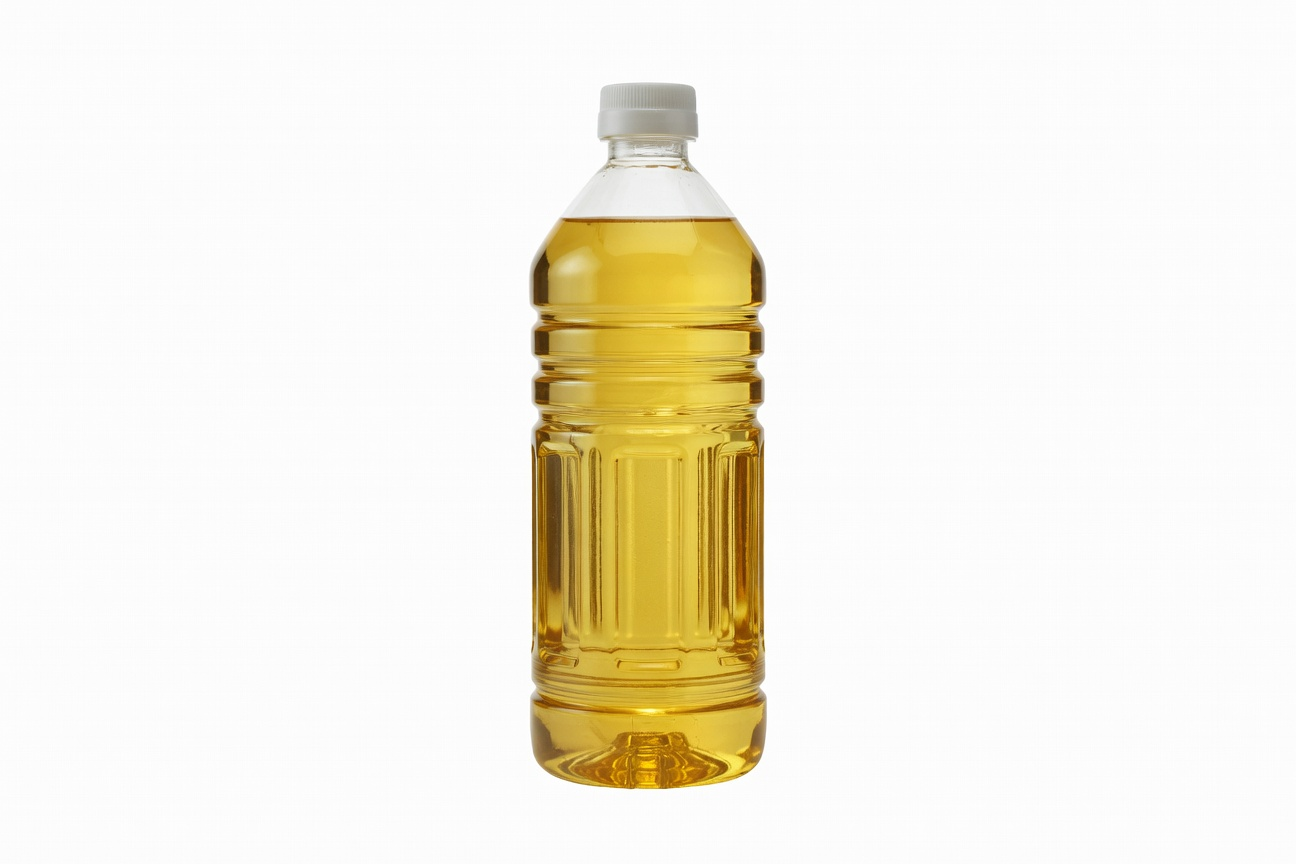
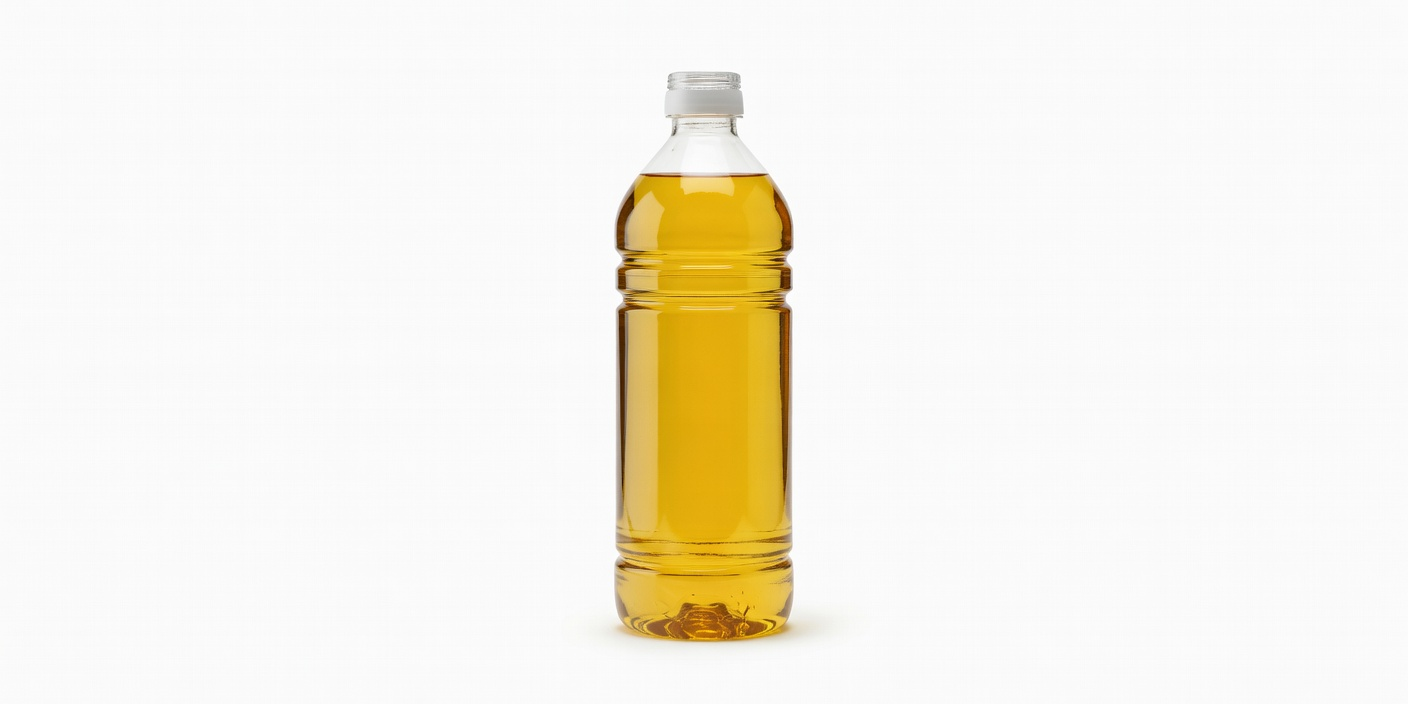
Fix catalog image framing and refresh product assets

Changed region(s): [[0.4012, 0.0938, 0.6173, 0.9375]]

diff --git a/frontend/src/components/ProductImage.jsx b/frontend/src/components/ProductImage.jsx
@@ -9,6 +9,8 @@ function ProductImage({
   height = 160,
   width = "100%",
   borderRadius = 0,
+  border = "1px solid #d1d5db",
+  fit = "contain",
 }) {
   const productName = String(alt || "").trim() || "Без названия";
   const candidateSources = useMemo(
@@ -25,10 +27,13 @@ function ProductImage({
     setFailed(false);
   }, [candidateSources]);
 
-  const resolvedWidth = typeof width === "number" ? `${width}px` : width;
-  const resolvedHeight = typeof height === "number" ? `${height}px` : height;
+  const numericWidth = typeof width === "number" ? width : undefined;
+  const numericHeight = typeof height === "number" ? height : undefined;
+  const resolvedWidth = numericWidth == null ? width : `${numericWidth}px`;
+  const resolvedHeight = numericHeight == null ? height : `${numericHeight}px`;
   const resolvedBorderRadius =
     typeof borderRadius === "number" ? `${borderRadius * 8}px` : borderRadius;
+  const resolvedFit = fit === "cover" ? fit : "contain";
 
   const handleError = () => {
     if (activeSourceIndex < candidateSources.length - 1) {
@@ -52,7 +57,7 @@ function ProductImage({
         textAlign: "center",
         backgroundColor: hasImage ? "#ffffff" : "#f3f4f6",
         color: "#111827",
-        border: "1px solid #d1d5db",
+        border,
       }}
     >
       {hasImage ? (
@@ -61,14 +66,15 @@ function ProductImage({
           alt={productName}
           loading="lazy"
           decoding="async"
-          width={typeof width === "number" ? width : undefined}
-          height={typeof height === "number" ? height : undefined}
+          width={numericWidth}
+          height={numericHeight}
           onError={handleError}
           style={{
             width: "100%",
             height: "100%",
             display: "block",
-            objectFit: "contain",
+            objectFit: resolvedFit,
+            objectPosition: "center",
             backgroundColor: "#ffffff",
             borderRadius: "inherit",
           }}

diff --git a/frontend/src/components/ProductImage.test.jsx b/frontend/src/components/ProductImage.test.jsx
@@ -1,0 +1,54 @@
+import { render, screen } from "@testing-library/react";
+import { describe, expect, it } from "vitest";
+
+import ProductImage from "./ProductImage.jsx";
+
+describe("ProductImage", () => {
+  it("supports custom border styling for card media integration", () => {
+    render(
+      <ProductImage
+        productId={103}
+        src="/images/products/test-border.webp"
+        alt="Товар без внутренней рамки"
+        height={160}
+        border="none"
+      />,
+    );
+
+    expect(
+      screen.getByRole("img", { name: "Товар без внутренней рамки" }).parentElement?.style
+        .borderStyle,
+    ).toBe("none");
+  });
+
+  it("uses contain fit by default", () => {
+    render(
+      <ProductImage
+        productId={101}
+        src="/images/products/test.webp"
+        alt="Тестовый товар"
+        height={160}
+      />,
+    );
+
+    expect(screen.getByRole("img", { name: "Тестовый товар" })).toHaveStyle(
+      "object-fit: contain",
+    );
+  });
+
+  it("supports cover fit for edge-to-edge catalog cards", () => {
+    render(
+      <ProductImage
+        productId={102}
+        src="/images/products/test-cover.webp"
+        alt="Товар на всю рамку"
+        height={160}
+        fit="cover"
+      />,
+    );
+
+    expect(screen.getByRole("img", { name: "Товар на всю рамку" })).toHaveStyle(
+      "object-fit: cover",
+    );
+  });
+});

diff --git a/frontend/src/utils/productImageSources.test.js b/frontend/src/utils/productImageSources.test.js
@@ -1,9 +1,6 @@
 import { describe, expect, it } from "vitest";
 
-import {
-  buildGeneratedProductImageAlias,
-  buildProductImageCandidates,
-} from "./productImageSources.js";
+import { buildGeneratedProductImageAlias, buildProductImageCandidates } from "./productImageSources.js";
 
 describe("productImageSources", () => {
   it("builds generated product image alias from legacy webp source", () => {
@@ -24,7 +21,6 @@ describe("productImageSources", () => {
   it("prefers generated jpg alias and keeps api photoUrl as fallback", () => {
     expect(
       buildProductImageCandidates({
-        productId: 431,
         src: "/images/products/potato.webp",
       }),
     ).toEqual([
@@ -36,13 +32,12 @@ describe("productImageSources", () => {
   it("falls back to source only when no legacy webp alias can be derived", () => {
     expect(
       buildProductImageCandidates({
-        productId: 431,
         src: "/images/products/custom-upload.png",
       }),
     ).toEqual(["/images/products/custom-upload.png"]);
   });
 
   it("returns an empty list when there is no source at all", () => {
-    expect(buildProductImageCandidates({ productId: 103, src: "" })).toEqual([]);
+    expect(buildProductImageCandidates({ src: "" })).toEqual([]);
   });
 });

diff --git a/frontend/src/views/DirectorView.jsx b/frontend/src/views/DirectorView.jsx
@@ -1339,6 +1339,8 @@ export default function DirectorView({ token, activeSection }) {
                           height: "100%",
                           display: "flex",
                           flexDirection: "column",
+                          overflow: "hidden",
+                          borderRadius: 3,
                         }}
                       >
                         <ProductImage
@@ -1346,6 +1348,8 @@ export default function DirectorView({ token, activeSection }) {
                           src={product.photoUrl}
                           alt={product.name}
                           height={160}
+                          border="none"
+                          fit="cover"
                         />
                         <CardContent sx={{ flexGrow: 1 }}>
                           <Typography

diff --git a/generate_200_product_images.py b/generate_200_product_images.py
@@ -50,7 +50,7 @@ DEFAULT_MODEL = "grok-imagine-image"
 DEFAULT_WORKERS = 14
 MAX_RETRIES = 2
 PRICE_PER_IMAGE_USD = 0.02
-ASPECT_RATIO = "3:2"
+ASPECT_RATIO = "2:1"
 RESOLUTION = "1k"
 
 COMMON_AVOID = (
@@ -72,6 +72,12 @@ COMMON_AVOID = (
     "table scene",
     "farm scene",
     "outdoor background",
+    "wire rack",
+    "grid background",
+    "tile wall",
+    "countertop",
+    "tabletop",
+    "shelf",
     "collage",
     "border",
     "background clutter",
@@ -124,6 +130,11 @@ def parse_args() -> argparse.Namespace:
     parser.add_argument("--model", default=DEFAULT_MODEL, help="xAI image model (default: grok-imagine-image)")
     parser.add_argument("--limit", type=int, default=None, help="Optional debug limit for the number of products")
     parser.add_argument("--ids", default="", help="Comma-separated product ids to process, for example 62,192,200")
+    parser.add_argument(
+        "--names",
+        default="",
+        help="Comma-separated product names to process, for example \"Лечо домашнее 700 г,Масло подсолнечное нерафинированное 1 л\"",
+    )
     parser.add_argument("--overwrite", action="store_true", help="Regenerate images even if the JPG already exists")
     parser.add_argument(
         "--sync-public",
@@ -145,7 +156,7 @@ def load_api_key() -> str:
     if api_key:
         return api_key
 
-    entered = getpass.getpass("Enter xAI API key (XAI_API_KEY / xai-...): ").strip()
+    entered = getpass.getpass("Enter xAI API key (XAI_API_KEY / sk-...): ").strip()
     if not entered:
         raise SystemExit("xAI API key is required.")
     return entered
@@ -272,10 +283,36 @@ def parse_selected_ids(raw_ids: str) -> set[int] | None:
     return selected
 
 
-def select_products(products: list[Product], selected_ids: set[int] | None, limit: int | None) -> list[Product]:
-    selected = products
-    if selected_ids is not None:
-        selected = [product for product in products if product.id in selected_ids]
+def parse_selected_names(raw_names: str) -> set[str] | None:
+    raw_names = raw_names.strip()
+    if not raw_names:
+        return None
+
+    selected = {
+        normalize_text(chunk)
+        for chunk in raw_names.split(",")
+        if normalize_text(chunk)
+    }
+    return selected or None
+
+
+def select_products(
+    products: list[Product],
+    selected_ids: set[int] | None,
+    selected_names: set[str] | None,
+    limit: int | None,
+) -> list[Product]:
+    selected = []
+    for product in products:
+        if selected_ids is not None and product.id in selected_ids:
+            selected.append(product)
+            continue
+        if selected_names is not None and normalize_text(product.name) in selected_names:
+            selected.append(product)
+
+    if selected_ids is None and selected_names is None:
+        selected = list(products)
+
     if limit is not None:
         selected = selected[:limit]
     return selected
@@ -570,7 +607,7 @@ def build_prompt(product: Product) -> str:
         f"Subject: {profile.subject}. Packaging/presentation: {profile.packaging}. "
         "Style/medium: professional photorealistic studio product photography. "
         "Composition/framing: single centered product, clean isolated packshot, entire product fully visible, "
-        "consistent catalog angle, product fills the frame, no crop, no empty scene. "
+        "consistent catalog angle, wide commercial catalog framing, do not crop the subject, leave a small safe margin around the product, no empty scene. "
         "Lighting/mood: soft natural studio lighting, neutral color balance, premium commercial e-commerce quality, "
         "highly detailed realistic textures. "
         f"Constraints: depict the item exactly in the form sold to grocery stores; {profile.notes}; "
@@ -706,8 +743,9 @@ def main() -> None:
         raise SystemExit("--workers must be >= 1")
 
     selected_ids = parse_selected_ids(args.ids)
+    selected_names = parse_selected_names(args.names)
     ensure_output_dir(args.sync_public)
-    products = select_products(extract_products(), selected_ids, args.limit)
+    products = select_products(extract_products(), selected_ids, selected_names, args.limit)
     if not products:
         raise SystemExit("No products matched the requested ids/limit.")
 

diff --git a/test_generate_200_product_images.py b/test_generate_200_product_images.py
@@ -1,0 +1,52 @@
+import unittest
+
+from generate_200_product_images import (
+    ASPECT_RATIO,
+    Product,
+    build_prompt,
+    parse_selected_ids,
+    select_products,
+)
+
+
+class GenerateProductImagesTests(unittest.TestCase):
+    def test_select_products_supports_name_filters(self):
+        products = [
+            Product(221, "Лечо домашнее 700 г", "Консервация", "lecho.webp"),
+            Product(
+                245,
+                "Масло подсолнечное нерафинированное 1 л",
+                "Масла",
+                "sunflower-oil-unrefined.webp",
+            ),
+            Product(250, "Икра кабачковая 500 г", "Консервация", "squash-caviar.webp"),
+        ]
+
+        selected = select_products(
+            products,
+            selected_ids=parse_selected_ids("245"),
+            selected_names={
+                "лечо домашнее 700 г",
+                "масло подсолнечное нерафинированное 1 л",
+            },
+            limit=None,
+        )
+
+        self.assertEqual([product.id for product in selected], [221, 245])
+
+    def test_prompt_requires_pure_white_uncropped_packshot(self):
+        prompt = build_prompt(
+            Product(221, "Лечо домашнее 700 г", "Консервация", "lecho.webp")
+        )
+
+        self.assertIn("pure white seamless studio background", prompt)
+        self.assertIn("entire product fully visible", prompt)
+        self.assertIn("do not crop the subject", prompt)
+        self.assertIn("strict aspect ratio 2:1", prompt)
+
+    def test_aspect_ratio_is_updated_for_wide_catalog_cards(self):
+        self.assertEqual(ASPECT_RATIO, "2:1")
+
+
+if __name__ == "__main__":
+    unittest.main()
